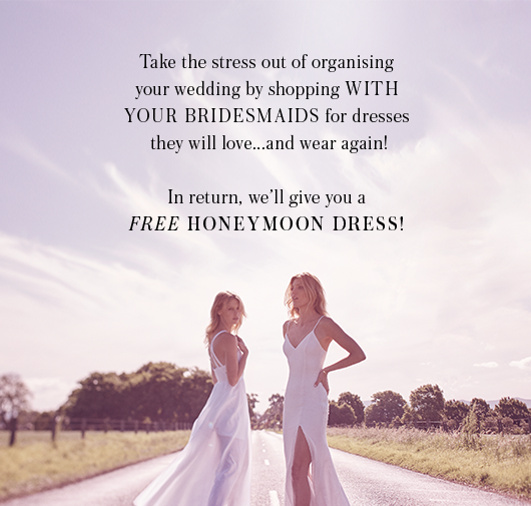
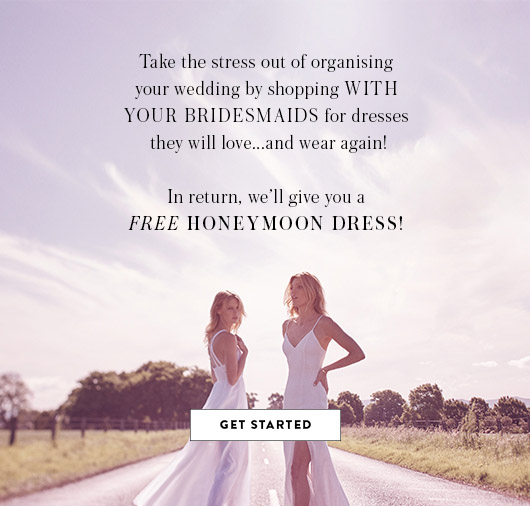
updated tiles, styling changes

diff --git a/app/assets/stylesheets/redesign/pages/_landing-famingtonway.scss b/app/assets/stylesheets/redesign/pages/_landing-famingtonway.scss
@@ -17,6 +17,12 @@
 
   }
 
+  .btn {
+    padding: 5px 20px;
+    line-height: normal;
+    font-size: 0.75em;
+  }
+
   // START - hero-wrap
   .hero-wrap {
 
@@ -133,12 +139,6 @@
       font-size: 1.625em;
     }
 
-    .btn {
-      padding: 5px 20px;
-      line-height: normal;
-      font-size: 0.75em;
-    }
-
   }
   // END - section-register
 
@@ -166,12 +166,6 @@
 
     }
 
-    .btn {
-      padding: 5px 20px;
-      line-height: normal;
-      font-size: 0.75em;
-    }
-
   }
 
   .align-left{
@@ -193,13 +187,24 @@
     & {
 
       .heading-secondary {
-        margin: 60px 280px;
+        margin: 60px 0;
+
+        &.heading-width-md {
+          margin-left: 28%;
+          margin-right: 28%;
+        }
+
+        &.heading-width-sml {
+          margin-left: 36%;
+          margin-right: 36%;
+        }
+
       }
 
       .hero-wrap {
 
         .copy-wrap {
-          margin-top: -22px;
+          margin-top: -15px;
           padding: 0 0 30px 0;
         }
 
@@ -308,6 +313,14 @@
 
       }
 
+    }
+
+  }
+
+  @media (min-width: $bootstrap-lg-width) {
+    
+    & .section-steps ul {
+      padding-top: 30px;
     }
 
   }
